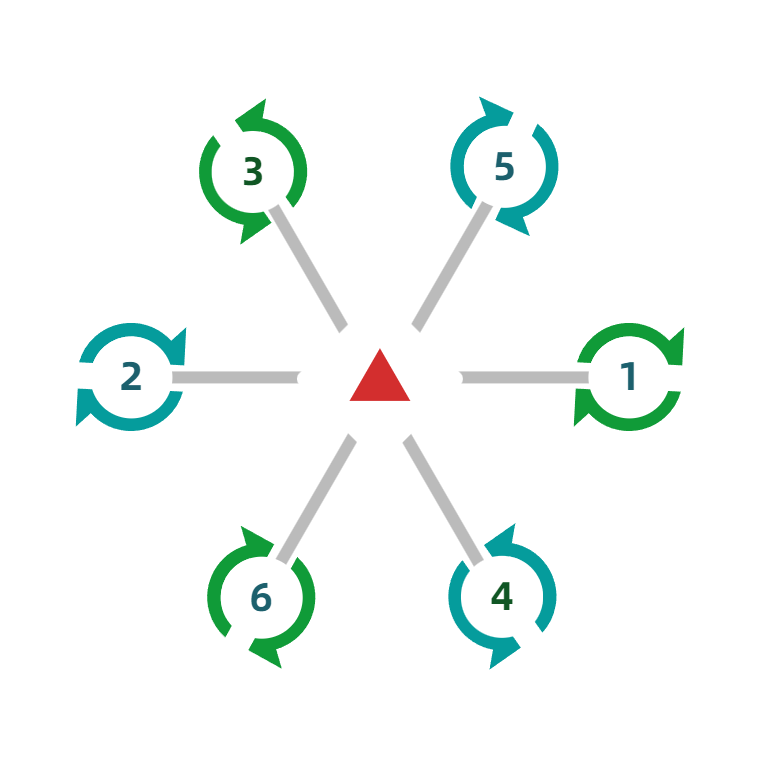
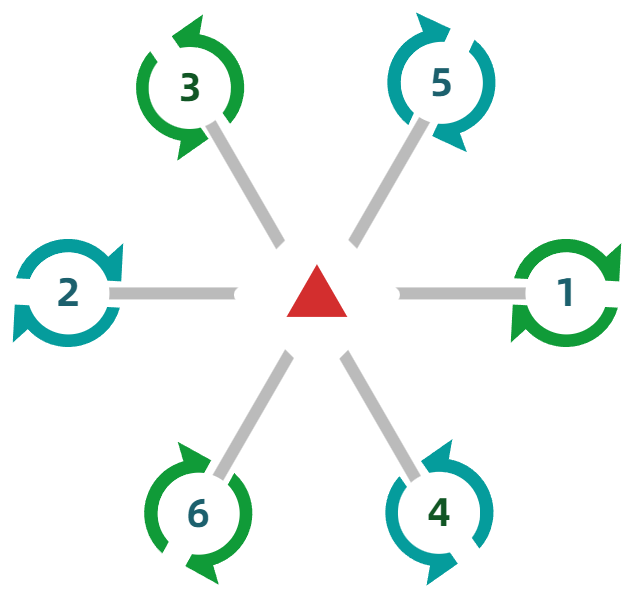
feat:电机测试页示意图裁减留白并改用页面背景色,电机按钮每4个换行,输入框调窄

diff --git a/src/AutoPilotPlugins/APM/XFAPMMotorComponent.qml b/src/AutoPilotPlugins/APM/XFAPMMotorComponent.qml
@@ -88,7 +88,7 @@ SetupPage {
             id:                 mainLayout
             x:                  ScreenTools.defaultFontPixelWidth * 2
             width:              availableWidth - ScreenTools.defaultFontPixelWidth * 2
-            spacing:            ScreenTools.defaultFontPixelHeight
+            spacing:            ScreenTools.defaultFontPixelHeight * 0.5
 
             property Fact _frameClass: airframeController.getParameterFact(-1, "FRAME_CLASS")
             property Fact _frameType:  airframeController.getParameterFact(-1, "FRAME_TYPE", false)
@@ -102,17 +102,19 @@ SetupPage {
             Flow {
                 Layout.fillWidth:   true
                 Layout.fillHeight:  true
-                spacing:            ScreenTools.defaultFontPixelWidth * 4
+                spacing:            ScreenTools.defaultFontPixelWidth * 2
 
                 Rectangle {
                     width:      ScreenTools.defaultFontPixelHeight * 12
                     height:     ScreenTools.defaultFontPixelHeight * 10
-                    color:      qgcPal.windowShade
+                    color:      qgcPal.window
                     radius:     ScreenTools.defaultFontPixelWidth * 0.5
 
                     Image {
                         anchors.fill:           parent
                         anchors.margins:        ScreenTools.defaultFontPixelWidth * 0.5
+                        anchors.topMargin:      0
+                        anchors.bottomMargin:   0
                         fillMode:               Image.PreserveAspectFit
                         smooth:                 true
                         antialiasing:           true
@@ -136,7 +138,7 @@ SetupPage {
 
                         QGCTextField {
                             id:                 throttleField
-                            Layout.preferredWidth: ScreenTools.defaultFontPixelWidth * 8
+                            Layout.preferredWidth: ScreenTools.defaultFontPixelWidth * 6
                             text:               "0"
                             inputMethodHints:   Qt.ImhFormattedNumbersOnly
                             validator:          IntValidator { bottom: 0; top: 100 }
@@ -156,7 +158,7 @@ SetupPage {
 
                         QGCTextField {
                             id:                 durationField
-                            Layout.preferredWidth: ScreenTools.defaultFontPixelWidth * 8
+                            Layout.preferredWidth: ScreenTools.defaultFontPixelWidth * 6
                             text:               "3"
                             inputMethodHints:   Qt.ImhFormattedNumbersOnly
                             validator:          IntValidator { bottom: 0; top: 99999 }
@@ -196,9 +198,11 @@ SetupPage {
                         }
                     }
 
-                    Flow {
+                    GridLayout {
                         Layout.fillWidth:   true
-                        spacing:            ScreenTools.defaultFontPixelWidth * 2
+                        columns:            4
+                        columnSpacing:      ScreenTools.defaultFontPixelWidth * 2
+                        rowSpacing:         ScreenTools.defaultFontPixelWidth * 2
 
                         Repeater {
                             id:         buttonRepeater
